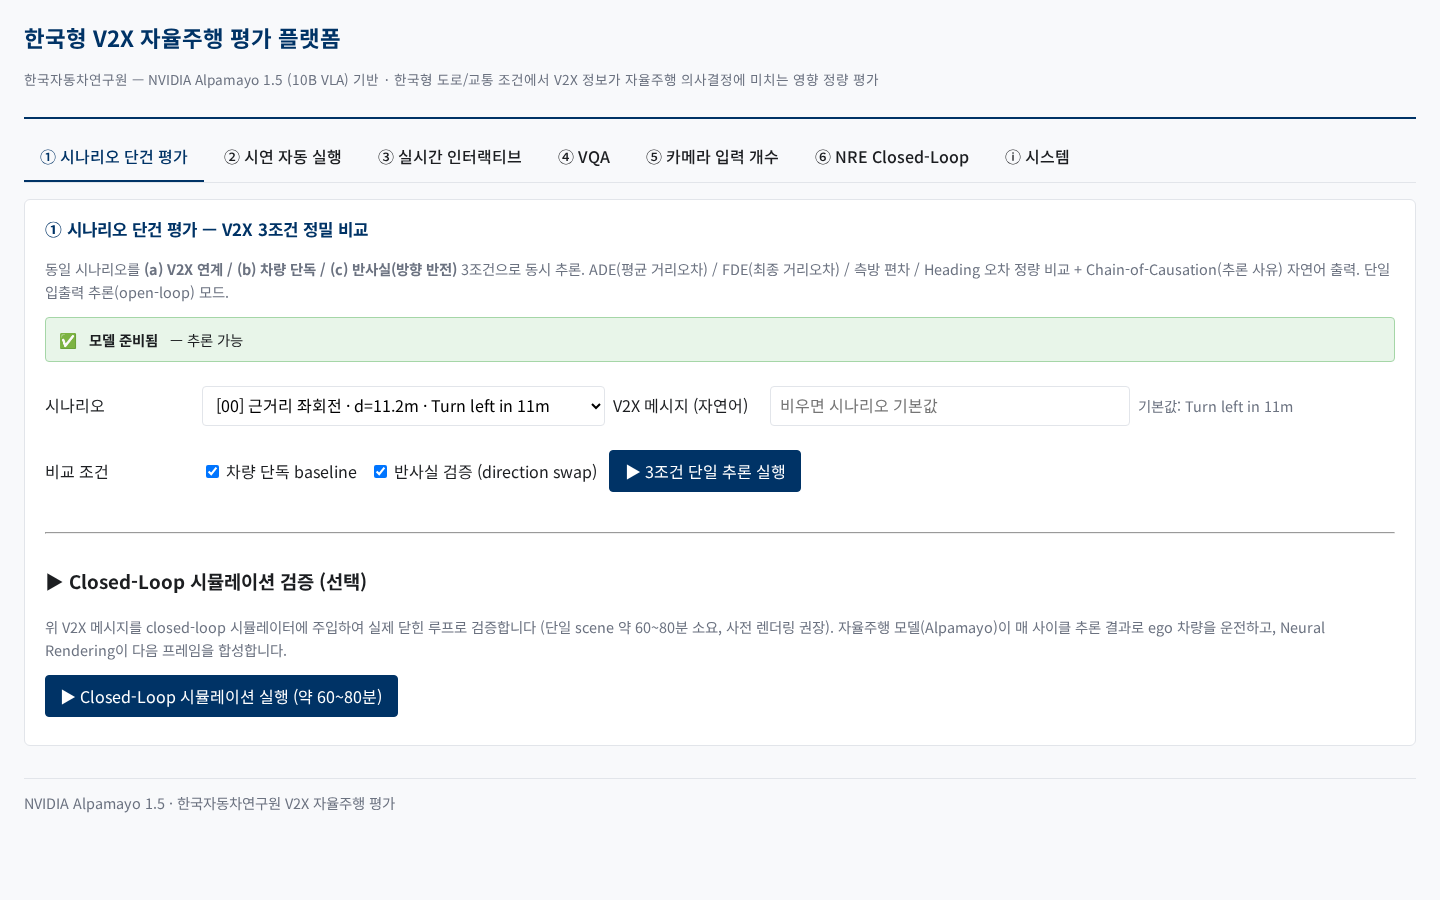
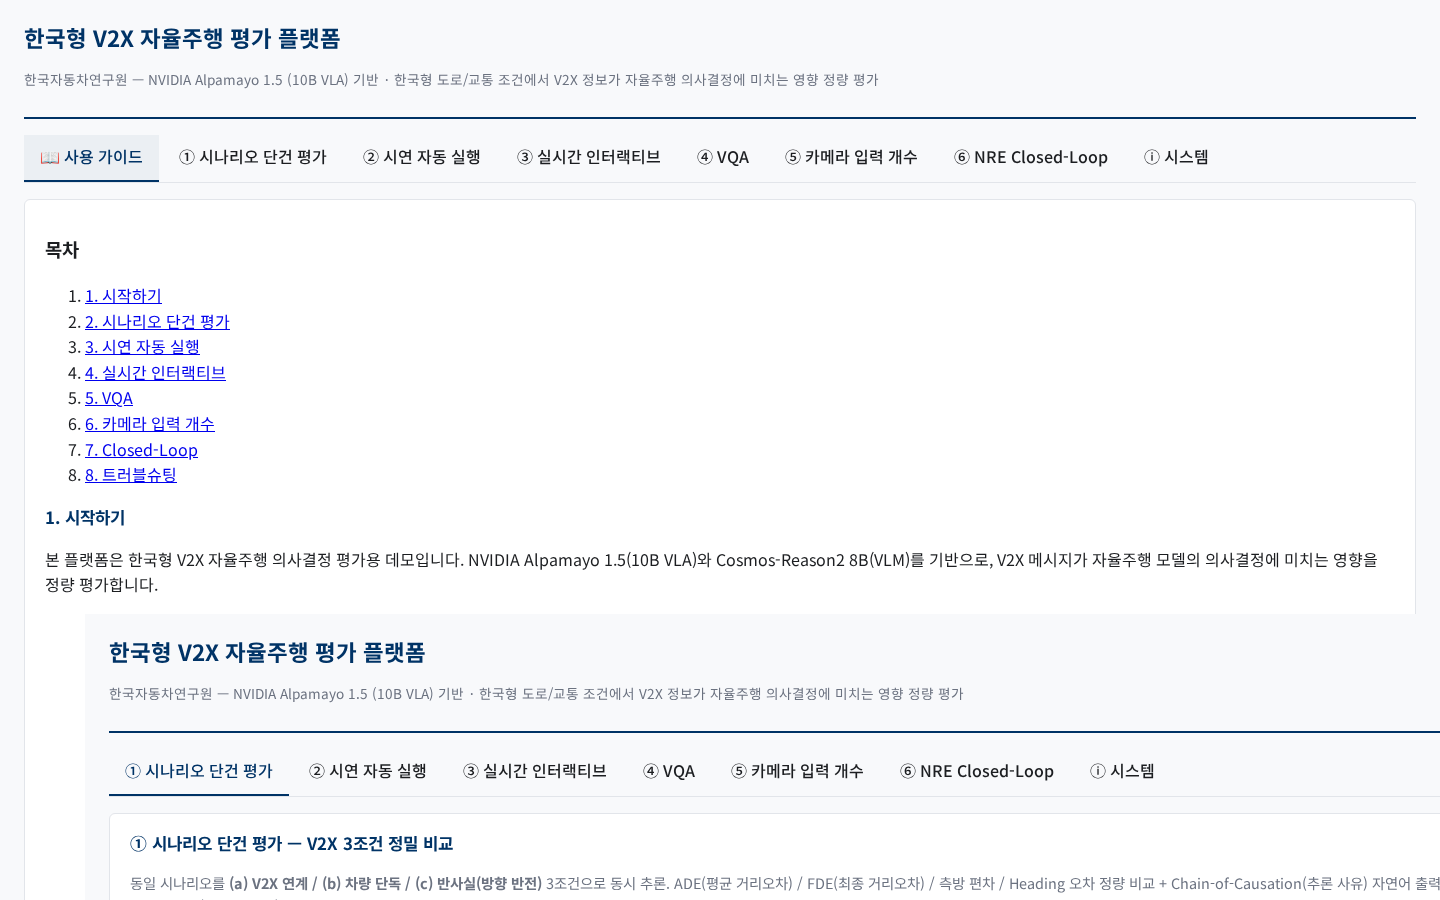
kadap-poc-v2: 사용 가이드 콘텐츠 실제 UI 정합 + landing 재캡처
코드 리뷰 follow-up:
- landing.png를 8 tab + 가이드 active 상태로 재캡처
- Tab ① 가이드 텍스트를 V2X preset 드롭다운 → 자유 텍스트 입력란으로 정정
- 평가 실행 버튼 라벨을 '▶ 3조건 단일 추론 실행'으로 정정
- Tab ③ preset 라벨 예시를 '↰ left 30m' 형식으로 정정

diff --git a/kadap-poc-v2/templates/tab_guide.html b/kadap-poc-v2/templates/tab_guide.html
@@ -48,11 +48,11 @@
         </p>
         <figure class="guide-screenshot">
           <img src="/static/manual/screenshots/01_scenario_eval_initial.png" alt="초기 상태">
-          <figcaption>초기: 모델 적재 버튼 + 시나리오/V2X preset 드롭다운</figcaption>
+          <figcaption>초기: 모델 적재 버튼 + 시나리오 드롭다운 + V2X 메시지 텍스트 입력란</figcaption>
         </figure>
         <figure class="guide-screenshot">
           <img src="/static/manual/screenshots/01_scenario_eval_input.png" alt="입력 선택">
-          <figcaption>시나리오 + V2X preset 선택</figcaption>
+          <figcaption>시나리오 선택 + V2X 메시지 입력</figcaption>
         </figure>
         <figure class="guide-screenshot">
           <img src="/static/manual/screenshots/01_scenario_eval_result.png" alt="결과 BEV + 메트릭">
@@ -62,8 +62,8 @@
         <ol>
           <li>처음 진입 시 <strong>"모델 적재"</strong> 클릭 → 약 1분 대기 (상태 자동 갱신)</li>
           <li>시나리오 드롭다운에서 평가 대상 선택 (예: <code>[00] 근거리 좌회전 · 11.2m</code>)</li>
-          <li>V2X preset 선택 (예: <code>↰ Turn left in 5m</code>)</li>
-          <li>baseline / 반사실 체크박스 그대로 두고 <strong>"▶ 평가 실행"</strong> 클릭</li>
+          <li>V2X 메시지 입력창에 메시지 타이핑 (예: <code>Turn left in 5m</code>), 또는 비워서 시나리오 기본값 사용</li>
+          <li>baseline / 반사실 체크박스 그대로 두고 <strong>"▶ 3조건 단일 추론 실행"</strong> 클릭</li>
           <li>약 30~60초 후 BEV 이미지 3장 + 메트릭 테이블 출력</li>
         </ol>
         <h3>결과 해석</h3>
@@ -135,7 +135,7 @@
         <ol>
           <li>시나리오 드롭다운에서 평가 대상 선택</li>
           <li>카메라 영상 + 기본 BEV 자동 표출</li>
-          <li>V2X preset 버튼 (예: <code>Turn left in 30m</code>) 클릭 → BEV 즉시 갱신</li>
+          <li>V2X preset 버튼 (예: <code>↰ left 30m</code>) 클릭 → BEV 즉시 갱신</li>
           <li>여러 preset을 순서대로 클릭하며 BEV 차이 관찰</li>
         </ol>
         <h3>결과 해석</h3>
